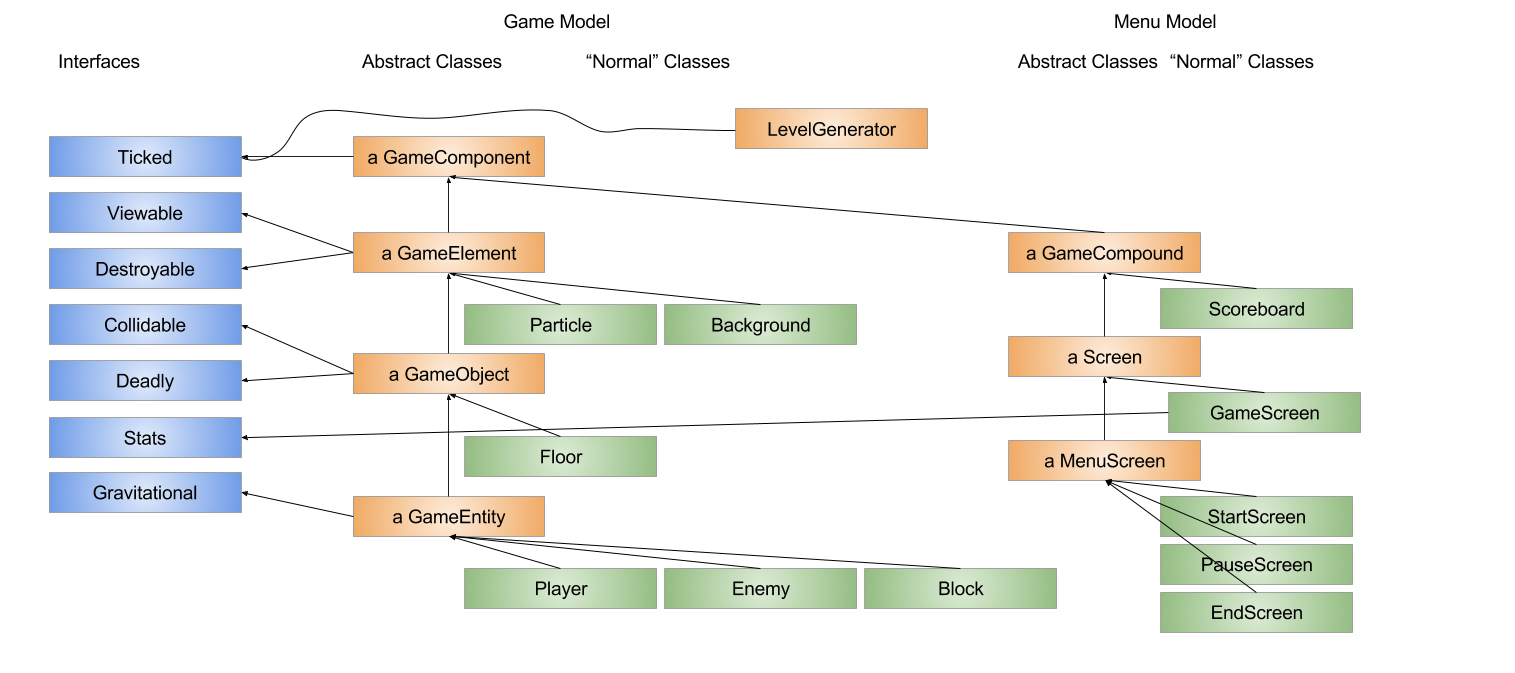
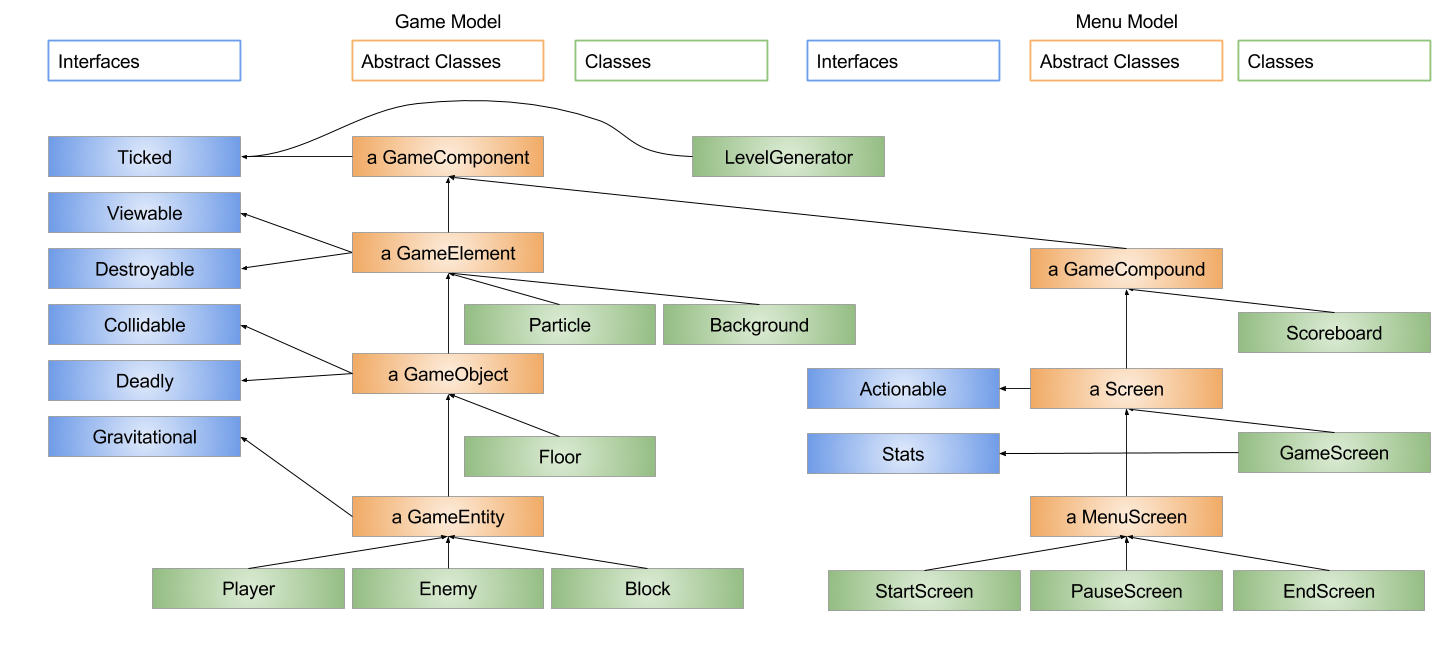
finishes and adds the two hierachy images

diff --git a/ProgOOProject2017/src/de/uni_kiel/progOOproject17/launch/Main.java b/ProgOOProject2017/src/de/uni_kiel/progOOproject17/launch/Main.java
@@ -19,8 +19,12 @@ import de.uni_kiel.progOOproject17.view.PLDektopView;
  * TODO description of class hierarchy
  * TODO update type hierarchy
  * <p>
- * <img src="model_class_hierarchy.png" title="Class hierarchy of the model" alt
- * ="Class hierarchy of the model" width="800" height="355">
+ * 
+ * <img src="mvc_class_hierarchy.png" title="MVC Class hierarchy" alt
+ * ="MVC Class hierarchy" width="800" height="235">
+ * <img src="model_class_hierarchy.png" title="Class hierarchy in the model" alt
+ * ="Class hierarchy in the model" width="800" height="360">
+ *
  *
  */
 public class Main {

diff --git a/ProgOOProject2017/src/de/uni_kiel/progOOproject17/model/abs/ElementCreator.java b/ProgOOProject2017/src/de/uni_kiel/progOOproject17/model/abs/ElementCreator.java
@@ -1,11 +1,16 @@
 package de.uni_kiel.progOOproject17.model.abs;
 
 /**
- * TODO ElementCreator COMMENTS
+ * This interface can be used to fastforward the power to create a new {@link GameElement}.
  */
 @FunctionalInterface
 public interface ElementCreator {
 
+	/**
+	 * Creates and activates the {@link GameElement} g.
+	 * 
+	 * @param g
+	 */
 	public void create(GameElement g);
 
 }

diff --git a/ProgOOProject2017/src/de/uni_kiel/progOOproject17/resources/package-info.java b/ProgOOProject2017/src/de/uni_kiel/progOOproject17/resources/package-info.java
@@ -1,4 +1,4 @@
 /**
- * TODO RESOURCES PACKAGE INFO
+ * This package contains all classes managing the resources this program needs access to.
  */
 package de.uni_kiel.progOOproject17.resources;
